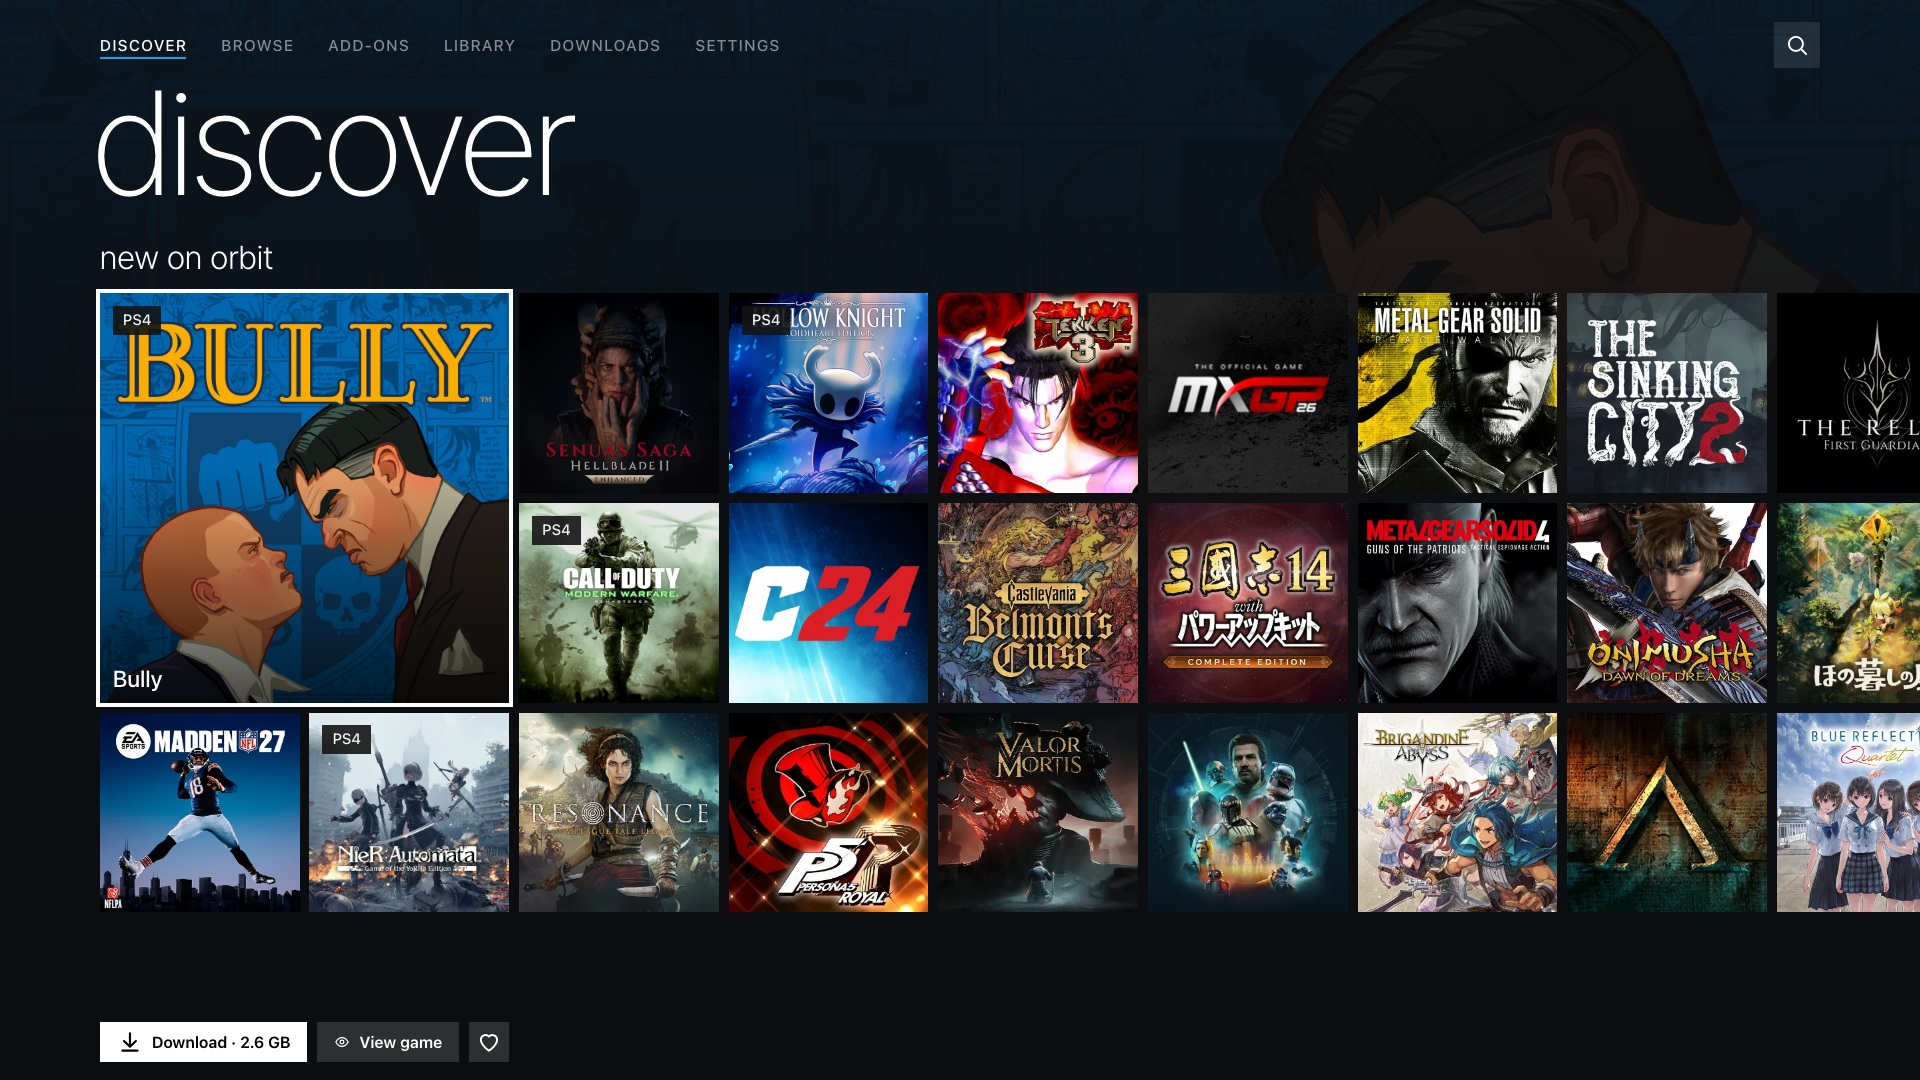
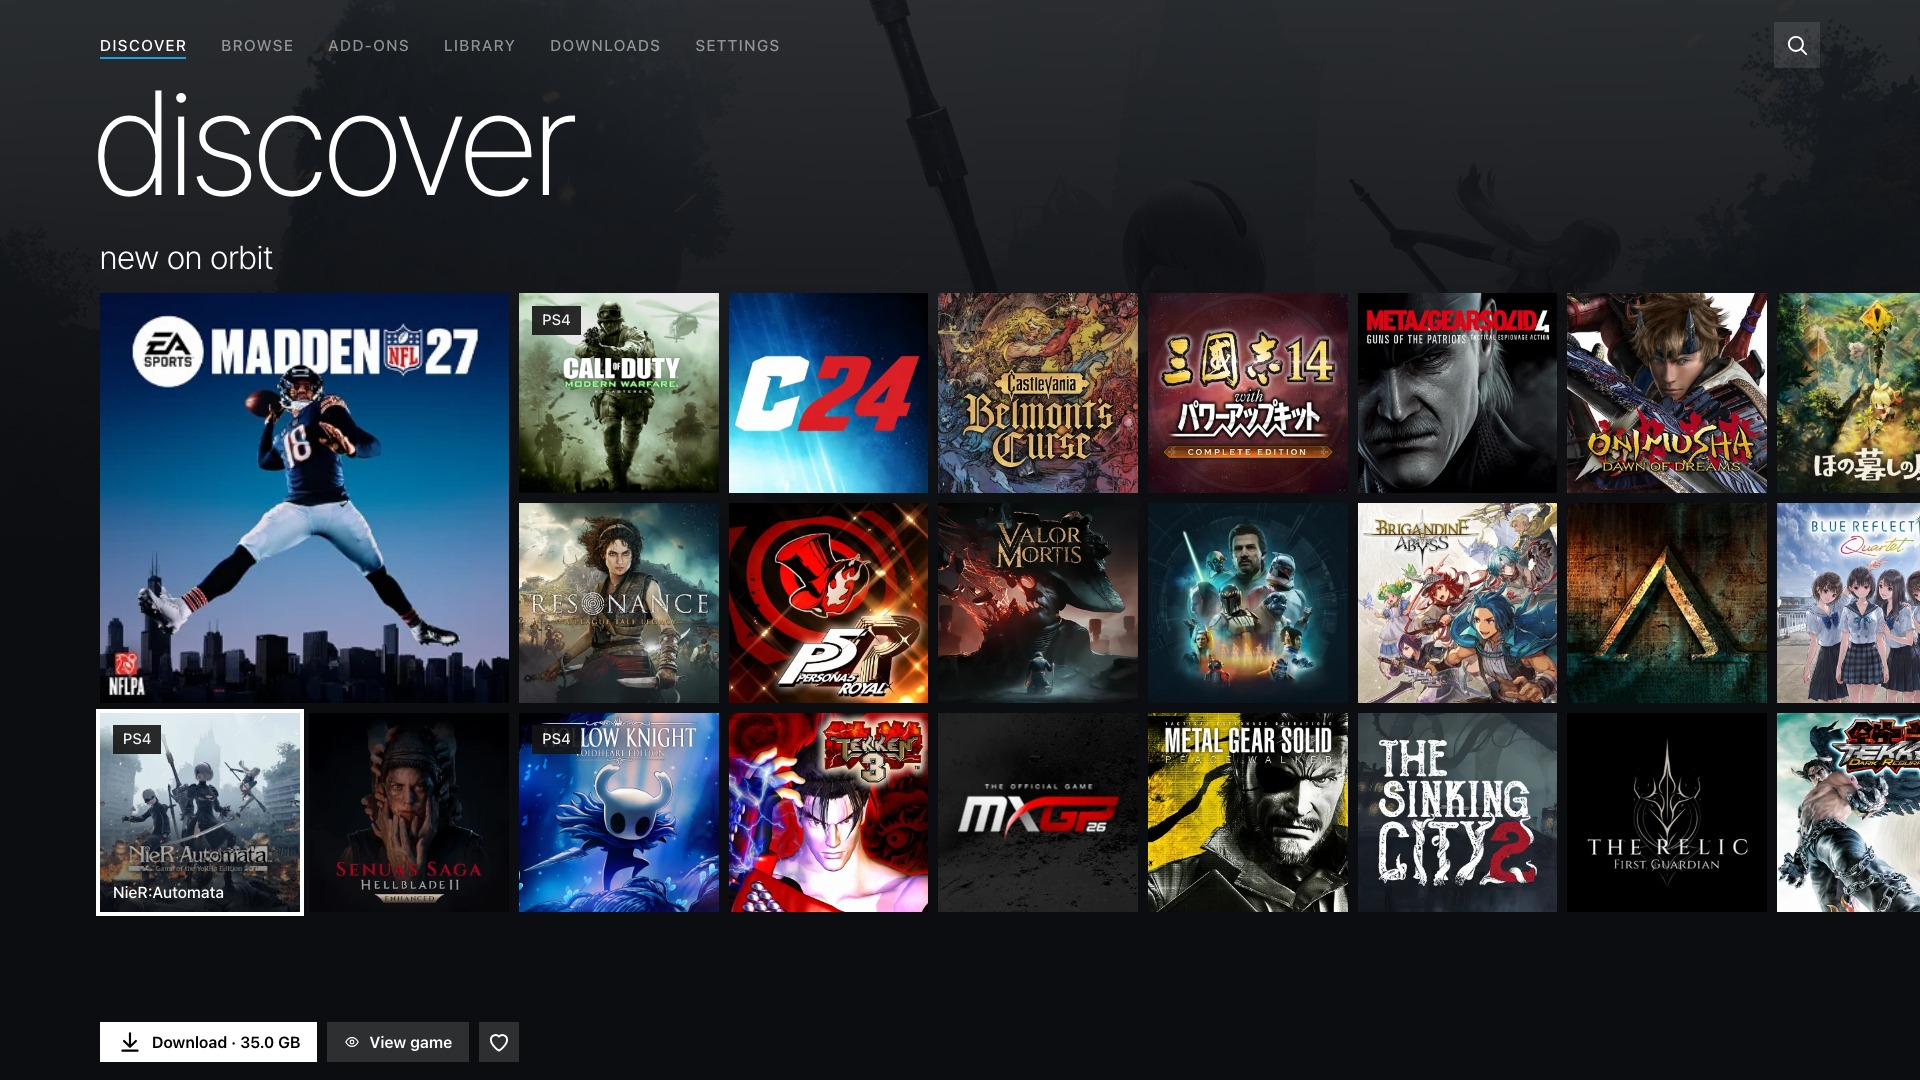
Update native app metadata and refresh screenshots

diff --git a/README.md b/README.md
@@ -11,7 +11,7 @@ When a game finishes downloading, install it without leaving Orbit. Choose **Ins
 Explore **2,026 games: 1,107 PS5 games and 919 PS4 games**, plus **445 DLCs and add-ons for 78 games**, with single-file downloads from Archive.org, Vikingfile and AkiraBox. Filter by platform, choose your source and save to your preferred drive. New games, add-ons and corrected links arrive through catalogue updates. For PS4 packages, see [PS4 games on PS5](guides/downloads.md#ps4-games-on-ps5).
 
 <p>
-  <a href="assets/1.5.0/native-crossbar-discover.jpg?raw=1"><img src="assets/1.5.0/native-crossbar-discover.jpg" width="48%" alt="Native Crossbar Discover with Bully selected"></a>
+  <a href="assets/1.5.0/native-crossbar-discover.jpg?raw=1"><img src="assets/1.5.0/native-crossbar-discover.jpg" width="48%" alt="Native Crossbar Discover with NieR:Automata selected"></a>
   <a href="assets/1.5.0/native-store-game-details.jpg?raw=1"><img src="assets/1.5.0/native-store-game-details.jpg" width="48%" alt="Black Myth: Wukong game details in the native Store interface"></a>
 </p>
 
@@ -73,7 +73,7 @@ Open Orbit from your Games row and use the controller to browse, explore and cho
 
 **Store (default)**
 
-![Orbit Store 1.5.0 Discover with Bully selected](assets/1.5.0/store-discover-bully.jpg)
+![Orbit Store 1.5.0 Discover with NieR:Automata selected](assets/1.5.0/store-discover-nier-automata.jpg)
 
 **Keep exploring.** All games gives each title its own tile. Move through the grid with your controller; more games appear as you keep scrolling.
 
@@ -173,7 +173,7 @@ Download on your computer and transfer to your PS5 over your home network. Uncom
 
 Explore PS4 and PS5 games with full artwork, featured picks in New on Orbit and a shared favourites list. Browse’s **Platform** filter lets you choose PS4, PS5 or both. Choose the source and either **This computer** or a PS5 destination before starting a download.
 
-![Orbit Zero 1.5.0 Discover with Bully selected](assets/1.5.0/zero-discover-bully.jpg)
+![Orbit Zero 1.5.0 Discover with NieR:Automata selected](assets/1.5.0/zero-discover-nier-automata.jpg)
 
 ### Your PS5, at a glance
 
@@ -192,7 +192,7 @@ The desktop app supports **ARM64 and x64** computers and the same **11 interface
 | Component | Version |
 | --- | --- |
 | Orbit Store download service and browser interface (`orbit_store.elf`) | **1.5.0** |
-| Native TV app (`PPSA99177.ffpkg`) | **1.9.0** |
+| Native TV app (`PPSA99177.ffpkg`) | **1.9.1** |
 | Orbit Zero for desktop | **1.5.0** |
 
 The TV app has its own version number; these files belong to the same release. Use matching files when updating. Keep the PS5 awake while downloading or receiving transfers.

diff --git a/release-notes/v1.5.0.md b/release-notes/v1.5.0.md
@@ -2,6 +2,8 @@
 
 **A major update:** DLCs, game installation support and over 2,000 games now in Orbit.
 
+**Edit · Native app 1.9.1:** Fixed an issue where pressing X on an add-on in the default Store layout could open an unrelated game. Update `PPSA99177.ffpkg` to get the fix.
+
 - **Install without leaving Orbit.** After a PKG or FPKG downloads or transfers, choose **Install on PS5**. If a download has several packages, pick the ones you want. For exFAT, FFPFSC and extracted game folders, Orbit asks ShadowMount to scan for them, if a supported version is running.
 - **445 add-ons for 78 games.** Browse and download expansions, content packs, activation packages and bundles on the new **Add-ons** page, or from a game’s details.
 - **Over 2,000 games.** This update adds 195 games (188 PS4 and 7 PS5) and 71 more download choices for games already in Orbit. The catalogue now has 2,026 games.
@@ -46,7 +48,7 @@ Choose the package matching your computer from **Assets**: macOS DMG, Windows in
 
 ## Install the native TV app (FFPKG)
 
-Download `PPSA99177.ffpkg` from **Assets**, verify its `.sha256`, and copy it to `/data/homebrew/` on your PS5. Let ShadowMountPlus register it, then open **Orbit Store** from the Games row. The native app is **1.9.0**, bundled with Orbit Store **1.5.0**.
+Download `PPSA99177.ffpkg` from **Assets**, verify its `.sha256`, and copy it to `/data/homebrew/` on your PS5. Let ShadowMountPlus register it, then open **Orbit Store** from the Games row. The native app is **1.9.1**, bundled with Orbit Store **1.5.0**.
 
 If an older Orbit service is running, select **App settings → Update / reinstall → Stop Orbit to restart** in its browser interface before opening the updated app so the new service can start. Pairing, settings and your queue remain saved. [Native installation and update guide](https://github.com/saawant12/orbit-store-ps5/blob/main/guides/getting-started.md#update-the-tv-app).
 

diff --git a/guides/getting-started.md b/guides/getting-started.md
@@ -20,7 +20,7 @@ Orbit Zero includes PS4 and PS5 browsing and the same 11 interface languages as 
 
 ## PS4 and PS5 games
 
-The catalogue includes both platforms. The current release pairs **Orbit Store 1.5.0**, **native app 1.9.0** and **Orbit Zero 1.5.0**. PS4 support starts with service 1.1.0, native app 1.4.0 and Zero 1.1.0; archive extraction and AkiraBox need the current matching apps. In Browse, choose **Platform → PS4**, **PS5** or **All platforms**. A PS4 and a PS5 edition of the same game have separate download choices.
+The catalogue includes both platforms. The current release pairs **Orbit Store 1.5.0**, **native app 1.9.1** and **Orbit Zero 1.5.0**. PS4 support starts with service 1.1.0, native app 1.4.0 and Zero 1.1.0; archive extraction and AkiraBox need the current matching apps. In Browse, choose **Platform → PS4**, **PS5** or **All platforms**. A PS4 and a PS5 edition of the same game have separate download choices.
 
 Orbit itself runs on PS5. Downloading a PS4 PKG/FPKG saves a package to your selected drive; the **1.5.0** apps let you choose **Install on PS5** from the completed download. Earlier versions need a compatible package installer. New compatible images and game folders automatically request a ShadowMount scan in 1.5.0 when it is running. See [installing downloaded games](install-games.md) and [PS4 games on PS5](downloads.md#ps4-games-on-ps5).
 

diff --git a/guides/appearance.md b/guides/appearance.md
@@ -1,6 +1,6 @@
 # Choose your Orbit interface
 
-Orbit Store 1.5.0 and Orbit Zero 1.5.0 offer four interfaces: **Store**, **Crossbar**, **Cinema** and **Panorama**. For the native PS5 app, use **1.9.0**, included in the same release. Each changes the layout and navigation while keeping your catalogue, favourites and download queue.
+Orbit Store 1.5.0 and Orbit Zero 1.5.0 offer four interfaces: **Store**, **Crossbar**, **Cinema** and **Panorama**. For the native PS5 app, use **1.9.1**, included in the same release. Each changes the layout and navigation while keeping your catalogue, favourites and download queue.
 
 ## Switch interfaces
 
@@ -28,7 +28,7 @@ To return to the default later, open Appearance again, choose **Store** and conf
 
 ### Store
 
-![Orbit Store 1.5.0 Discover with Bully selected](../assets/1.5.0/store-discover-bully.jpg)
+![Orbit Store 1.5.0 Discover with NieR:Automata selected](../assets/1.5.0/store-discover-nier-automata.jpg)
 
 ### Crossbar
 

diff --git a/guides/downloads.md b/guides/downloads.md
@@ -14,7 +14,7 @@ On PS5, **Notify me when downloads finish or fail** in Storage settings controls
 
 **Discover opens first.** In the default Store interface, explore the featured game and **New on Orbit** first, followed by **Latest releases**. New on Orbit shows up to 40 games, with selected highlights first. Remaining places show recent catalogue additions, ordered by game release date. Move down to All games for the full collection. The grid loads more games as you scroll, largest downloads first. Each game's size is its smallest available option from your enabled sources.
 
-![Orbit Store 1.5.0 Discover with Bully selected](../assets/1.5.0/store-discover-bully.jpg)
+![Orbit Store 1.5.0 Discover with NieR:Automata selected](../assets/1.5.0/store-discover-nier-automata.jpg)
 
 *Store Discover in Orbit 1.5.0, rendered locally from the browser app. Crossbar, Cinema and Panorama arrange the same collections differently; see the [appearance guide](appearance.md).*
 

diff --git a/guides/orbit-zero.md b/guides/orbit-zero.md
@@ -8,7 +8,7 @@ Download the desktop app and matching PS5 files from [Orbit Store releases](http
 
 The current screenshots show Orbit Zero 1.5.0, rendered locally with the current catalogue.
 
-![Orbit Zero 1.5.0 Discover with Bully selected](../assets/1.5.0/zero-discover-bully.jpg)
+![Orbit Zero 1.5.0 Discover with NieR:Automata selected](../assets/1.5.0/zero-discover-nier-automata.jpg)
 
 *Discover in Orbit Zero.*
 
